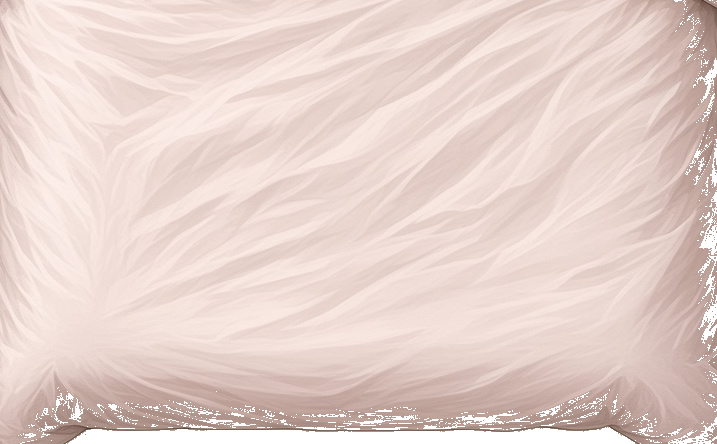
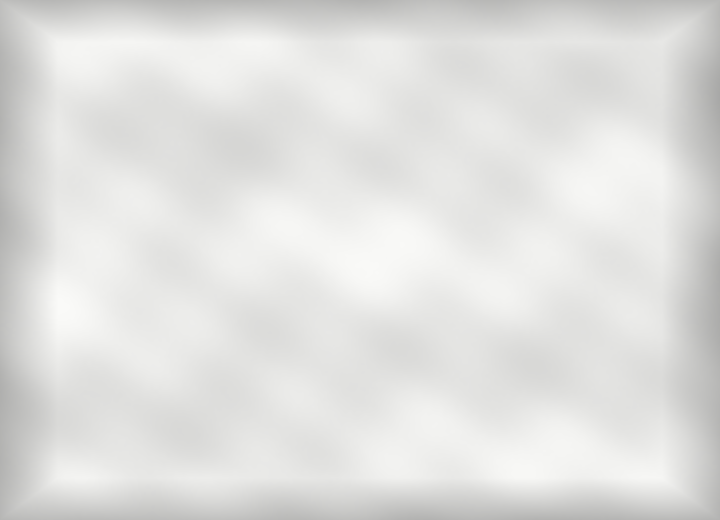
Make the master bedroom duvet white on both cameras.
Replace the blush duvet face sheets with opaque off-white folds and matching
front and side sheets so the default and V views use the same colours.
Cache revision is 36.

diff --git a/build_rooms.py b/build_rooms.py
@@ -187,7 +187,7 @@ def build_all(quiet=False):
 
 
 # Bump when saved room images must be rebuilt (opposite view added).
-CACHE_REV = "35"
+CACHE_REV = "36"
 
 
 def cache_ok():
